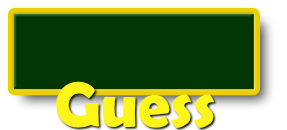
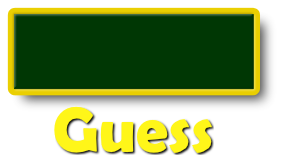
Redesigned the Time and Guess panels, changed font

Changed region(s): [[0.0, 0.5538, 0.9477, 1.0], [0.0279, 0.0308, 0.9199, 0.1231], [0.892, 0.1231, 0.9199, 0.2154]]

diff --git a/scripts/guesspanel.js b/scripts/guesspanel.js
@@ -21,14 +21,14 @@ export class GuessPanel {
         this.text = new Text({
             text: "00",
             style: {
-                fontFamily: "Arial",
-                fontSize: 50,
+                fontFamily: "Happy Monkey",
+                fontSize: 64,
                 fontWeight: 600,
                 fill: 0xffff00,
                 align: "center"
             }
         });
-        this.text.position.set(170, 40);
+        this.text.position.set(160, 15);
         this.root.addChild(this.text);
         this.guesses = 0;
     }

diff --git a/scripts/timerpanel.js b/scripts/timerpanel.js
@@ -23,14 +23,14 @@ export class TimerPanel {
         this.timeText = new Text({
             text: "00:00",
             style: {
-                fontFamily: "Arial",
-                fontSize: 50,
+                fontFamily: "Happy Monkey",
+                fontSize: 64,
                 fontWeight: 600,
                 fill: 0xffff00,
                 align: "center"
             }
         });
-        this.timeText.position.set(1650, 40);
+        this.timeText.position.set(1630, 15);
         this.root.addChild(this.timeText);
     }
 

diff --git a/scripts/main.js b/scripts/main.js
@@ -298,6 +298,7 @@ async function showGameOver() {
             messageContainer.removeChild(statsText);
             statsText.destroy();
             statsText = null; // Clear reference
+            audio.stop('gameOver');
             musicId = audio.play('music');
             resolve();
         }
